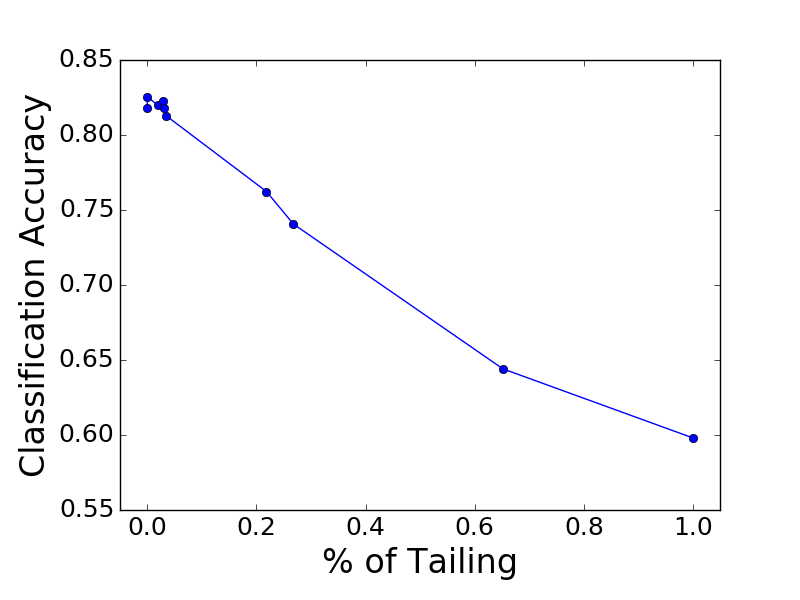
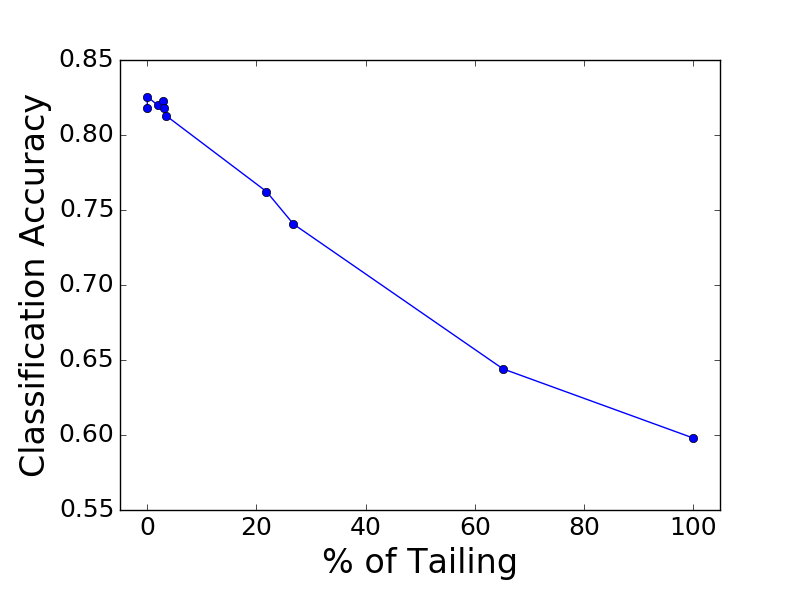
check in two graphs

diff --git a/eurosys2017/figure/prediction.py b/eurosys2017/figure/prediction.py
@@ -47,6 +47,13 @@ ax.plot(XList, YList, 'r:', label = 'Bernoulli with PC', linewidth=2.0)
 XList, YList = loadData(sJaccardPC)
 ax.plot(XList, YList, 'k-.', label = 'Jaccard with PC', linewidth=2.0)
 
+XList = range(0, 1000, 20)
+XList = [num * 1.0 / 1000 for num in XList]
+YList = range(0, 1000, 20)
+YList = [num * 1.0 / 1000 for num in YList]
+ax.plot(XList, YList, 'k-.', label = 'Random Guess', linewidth=2.0)
+
+
 
 legend = ax.legend(loc='lower right', fontsize='large')
 
@@ -73,6 +80,8 @@ ax.set_xlim(xmin, xmax)
 ymin = 0.0
 ymax = 1.0
 ax.set_ylim(ymin, ymax)
+
+#plt.show()
 
 fig.savefig('predict.png')
 fig.savefig('predict.pdf')

diff --git a/eurosys2017/figure/precision.py b/eurosys2017/figure/precision.py
@@ -41,6 +41,12 @@ if __name__ == '__main__':
 	xmax = XList[-1] + 0.05
 
 	ax.set_xlim(xmin, xmax)
+
+	ind = np.arange(0, 1.1, 0.2)
+	plt.xticks(ind, [ '0', '20', '40', '60', '80', '100'])
+
+	#plt.show()
+	#ax.set_xlim(xmin, xmax)
 	fig.savefig('accuracy.pdf')
 	fig.savefig('accuracy.png')
 	plt.close(fig)
